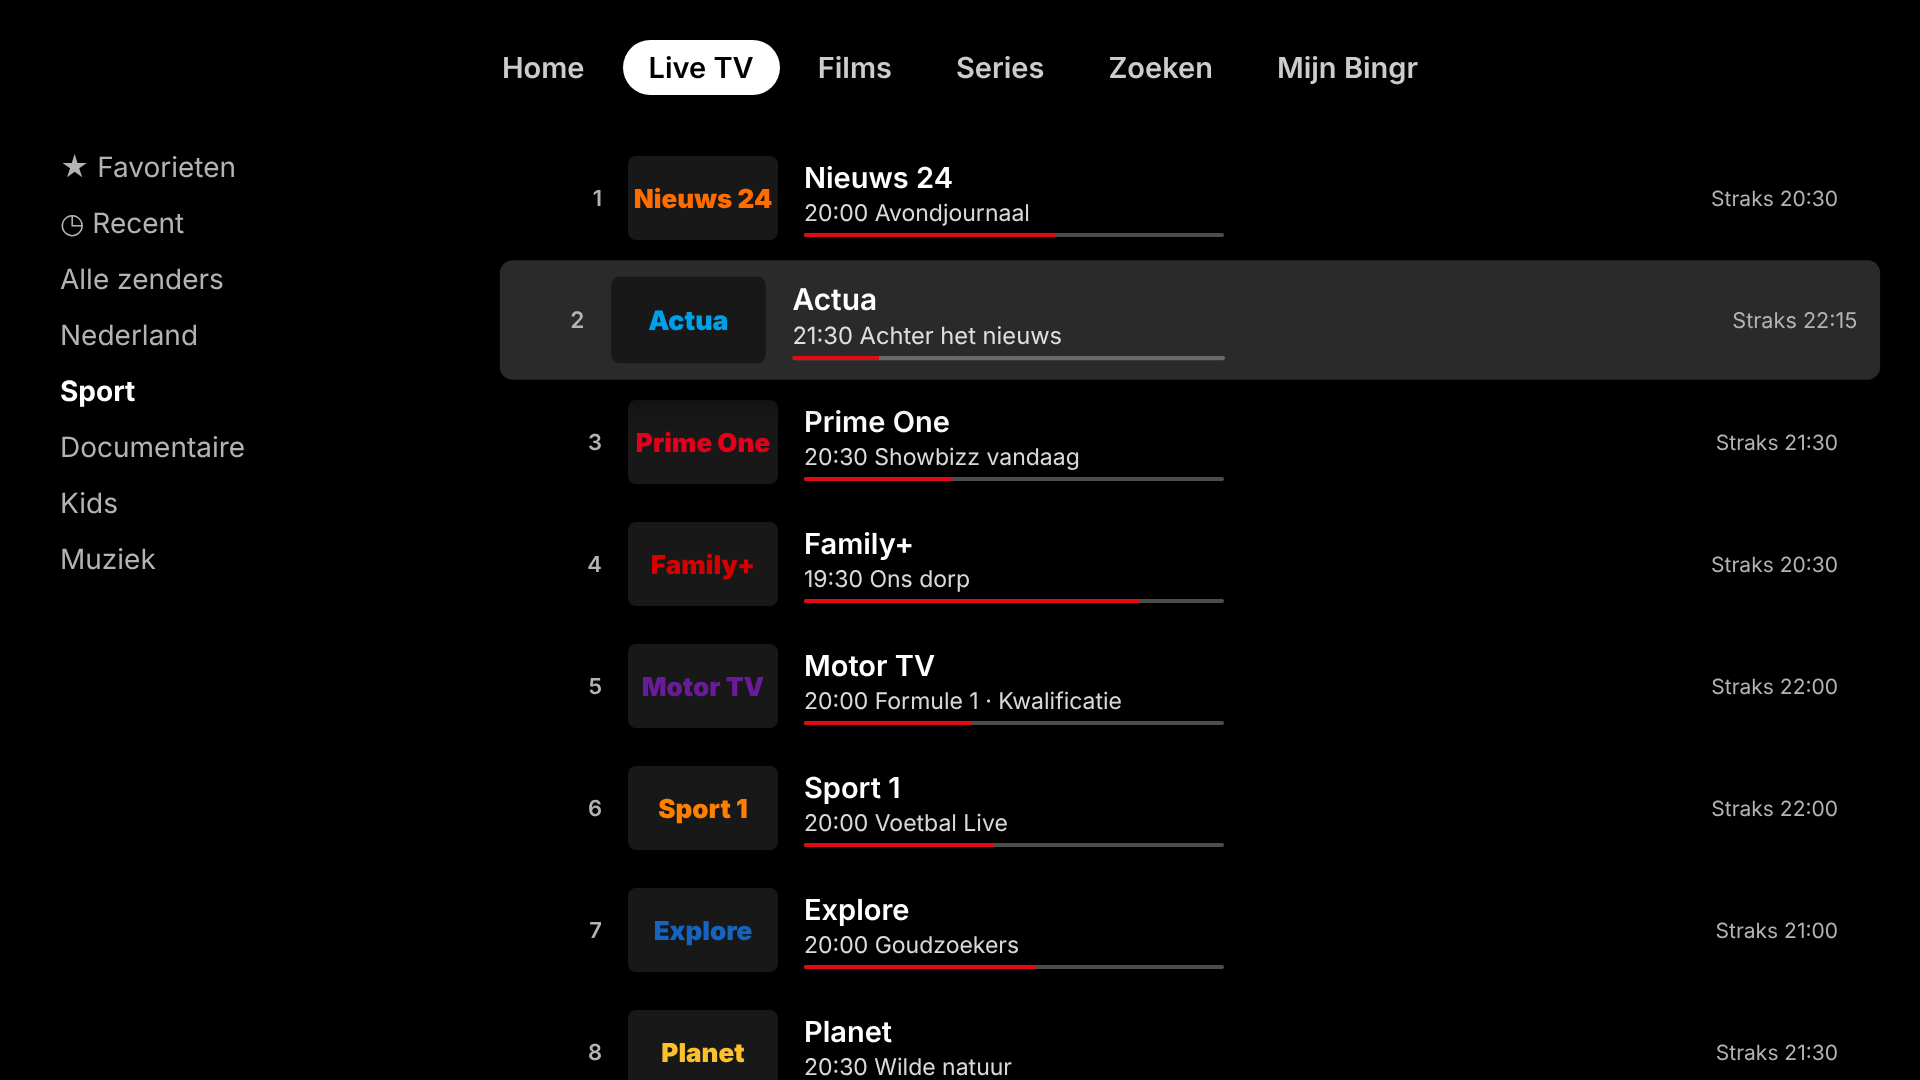
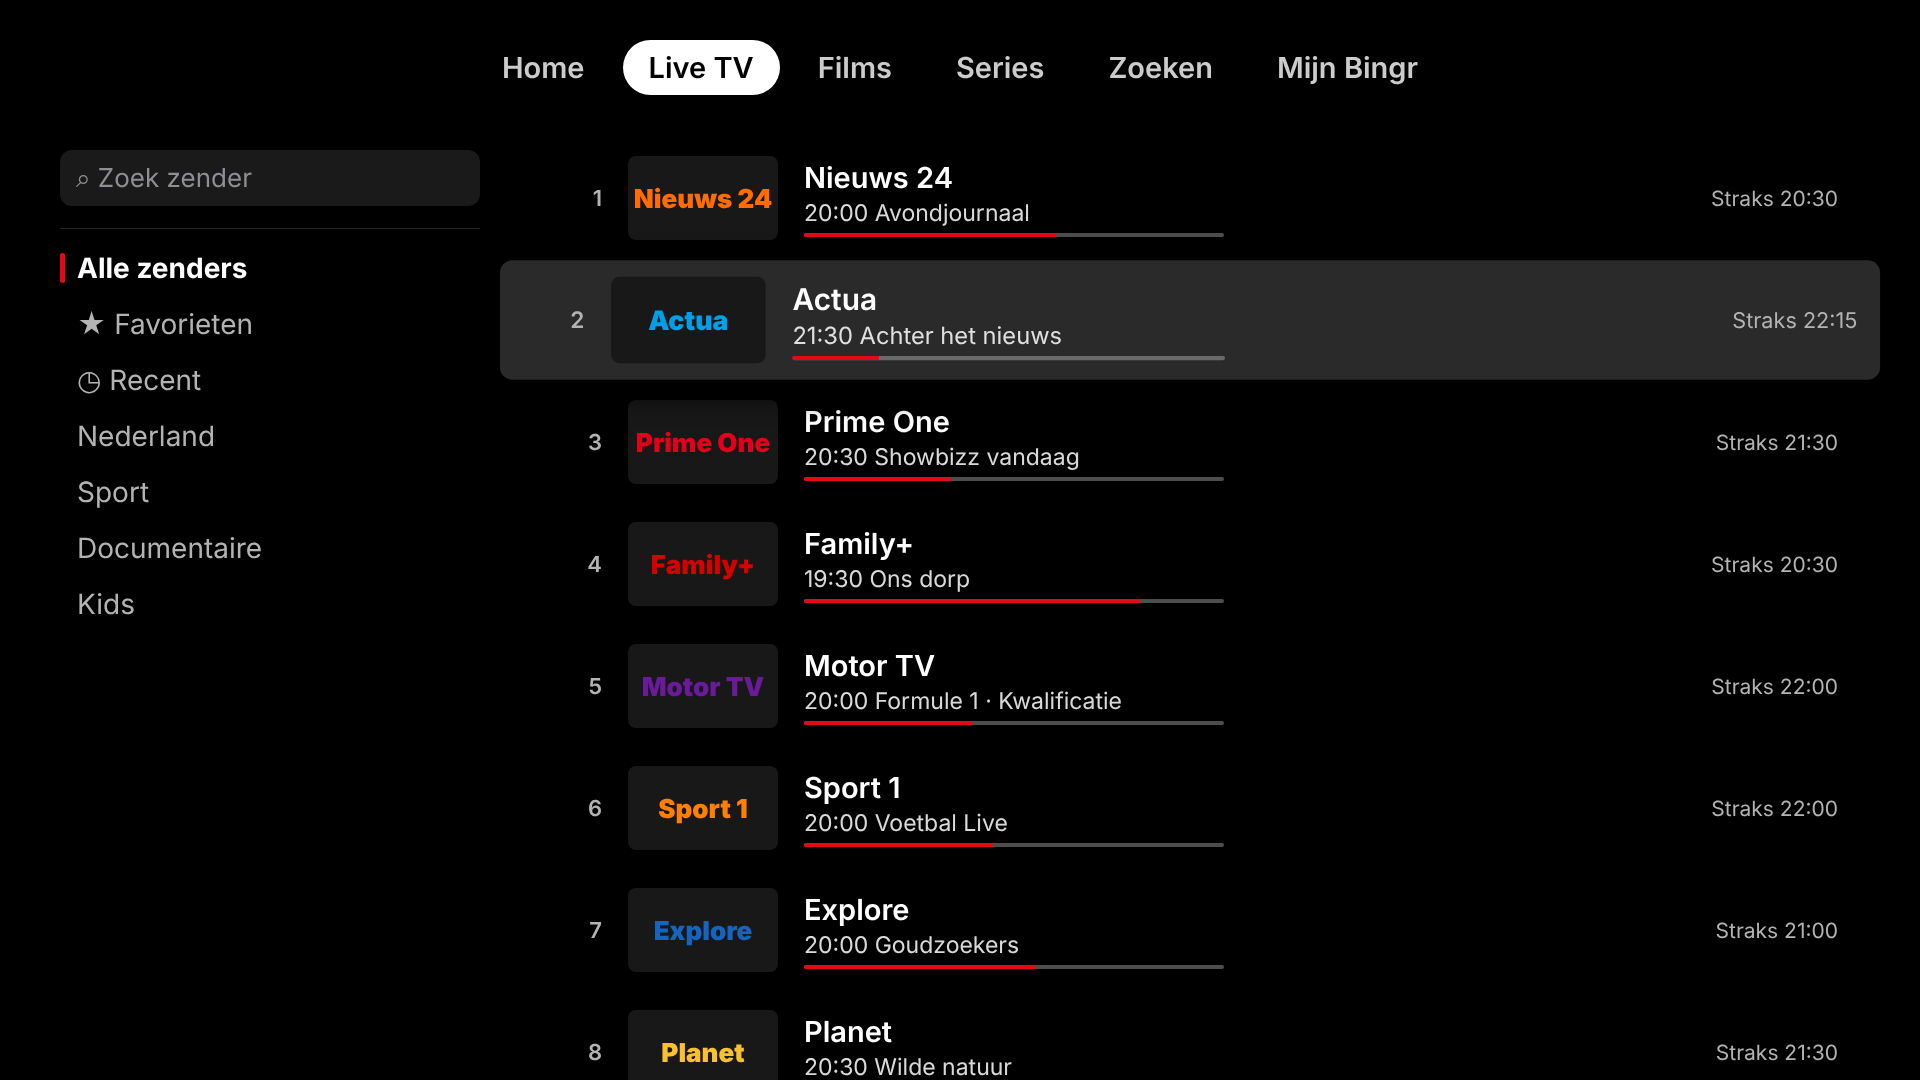
Screenshots: Live TV search (iOS + tvOS), Continue watching with progress bar, My List on Home
Claude-Session: https://claude.ai/code/session_01QoqqLVTvT2ekCDQmWshsy8

Changed region(s): [[0.0312, 0.1222, 0.25, 0.5806]]

diff --git a/docs/mockups/mockups.html b/docs/mockups/mockups.html
@@ -16,7 +16,7 @@ body{background:#000;color:#fff;font-family:-apple-system,"SF Pro Display","Helv
 .scroller{display:flex;gap:8px;padding:0 16px;overflow:hidden}
 .btn{display:inline-flex;align-items:center;justify-content:center;gap:8px;font-weight:700;border-radius:6px}
 .btn.w{background:#fff;color:#000}.btn.g{background:#ffffff38;color:#fff}.btn.r{background:var(--red);color:#fff}
-.tabbar{position:absolute;left:0;right:0;bottom:0;height:88px;background:#000;display:flex;justify-content:space-around;padding-top:10px;font-size:10px;color:#8c8c8c;border-top:1px solid #222}
+.tabbar{z-index:10;position:absolute;left:0;right:0;bottom:0;height:88px;background:#000;display:flex;justify-content:space-around;padding-top:10px;font-size:10px;color:#8c8c8c;border-top:1px solid #222}
 .tabbar div{display:flex;flex-direction:column;align-items:center;gap:4px}.tabbar .on{color:#fff}
 .ico{width:24px;height:24px;border-radius:5px;background:currentColor;opacity:.9;-webkit-mask-size:contain}
 .imdb{display:inline-flex;align-items:center;gap:5px;font-weight:600}.imdb b{background:var(--imdb);color:#000;font-weight:900;font-size:.72em;padding:1px 4px;border-radius:3px}
@@ -45,6 +45,7 @@ function poster(i,w,opt={}){const p=P[i%P.length];const h=w*1.5;
 const AV=[["#E50914","#7A0008","📺"],["#2563EB","#1E1B4B","🌐"],["#10B981","#064E3B","⚽"],["#A855F7","#3B0764","👑"],["#F59E0B","#9A3412","🔥"]];
 function av(i,s,name,color="#B3B3B3"){const a=AV[i];return `<div style="display:flex;flex-direction:column;align-items:center;gap:${s*.07}px"><div class="avatar" style="border-radius:50%;width:${s}px;height:${s}px;background:linear-gradient(135deg,${a[0]},${a[1]});font-size:${s*.42}px">${a[2]}</div><div style="color:${color};font-size:${s*.13}px">${name}</div></div>`}
 function top10(i,k,w){return `<div style="display:flex;align-items:flex-end;flex:none;margin-right:6px"><div style="font-size:${w*1.45}px;font-weight:900;line-height:.78;color:#000;-webkit-text-stroke:${Math.max(2,w/45)}px #8c8c8c;letter-spacing:-.06em;margin-right:-${w*.28}px">${k+1}</div><div style="position:relative;box-shadow:-6px 0 14px #000a">${poster(i,w,{badge:k==1?'Onlangs toegevoegd':null})}<div style="position:absolute;top:5px;left:5px;z-index:3;background:var(--red);border-radius:2px;padding:1px 3px;text-align:center;line-height:.9"><div style="font-size:${w*.055}px;font-weight:900">TOP</div><div style="font-size:${w*.09}px;font-weight:900">10</div></div></div></div>`}
+function cont(i,w,pct,min){return `<div style="flex:none;width:${w}px"><div style="position:relative">${poster(i,w)}<div style="position:absolute;inset:0;z-index:3;display:grid;place-items:center"><div style="width:38px;height:38px;border-radius:50%;background:#0008;border:1.5px solid #fffe;display:grid;place-items:center;font-size:14px;padding-left:3px">▶</div></div></div><div style="height:4px;border-radius:4px;background:#ffffff4d;margin-top:5px;overflow:hidden"><i style="display:block;height:100%;width:${pct}%;background:var(--red)"></i></div><div style="font-size:10px;color:#b3b3b3;margin-top:4px">Nog ${min} min</div></div>`}
 function rowh(t,all=true,fs=19){return `<div style="display:flex;justify-content:space-between;align-items:baseline;margin:0 16px 8px"><h3 style="margin:0;font-size:${fs}px">${t}</h3>${all?`<span style="font-size:15px;font-weight:600">Bekijk allemaal</span>`:''}</div>`}
 function chlogo(t,c){return `<div style="display:grid;place-items:center;font-weight:900;color:${c};font-size:13px;letter-spacing:-.02em">${t}</div>`}
 const CH=[["Nieuws 24","#ff6d00","Avondjournaal","20:00","20:30",.6],["Actua","#00a0e9","Achter het nieuws","21:30","22:15",.2],["Prime One","#e3001b","Showbizz vandaag","20:30","21:30",.35],
@@ -71,14 +72,14 @@ const screens = {
    <div style="position:relative"><div class="status"><span>20:42</span><span>●●● 5G ▮</span></div>
    <div style="display:flex;justify-content:space-between;align-items:center;padding:6px 16px"><div class="logo" style="font-size:26px">BINGR</div><div class="avatar" style="width:30px;height:30px;font-size:15px;border-radius:5px;background:linear-gradient(135deg,#E50914,#7A0008)">📺</div></div>
    <div style="display:flex;gap:8px;padding:8px 16px"><span class="pill">Series</span><span class="pill">Films</span><span class="pill">Categorieën ⌄</span></div>
-   <div style="margin:14px auto 0;width:300px;height:400px;border-radius:12px;overflow:hidden;position:relative;box-shadow:0 10px 40px #000a;border:1px solid #ffffff20;background:radial-gradient(circle at 35% 25%,#ff5a3c,transparent 55%),linear-gradient(170deg,#c0392b,#3a0a0a 75%)">
+   <div style="margin:14px auto 0;width:280px;height:340px;border-radius:12px;overflow:hidden;position:relative;box-shadow:0 10px 40px #000a;border:1px solid #ffffff20;background:radial-gradient(circle at 35% 25%,#ff5a3c,transparent 55%),linear-gradient(170deg,#c0392b,#3a0a0a 75%)">
      <div style="position:absolute;inset:0;background:linear-gradient(transparent 40%,#000d)"></div>
      <div style="position:absolute;bottom:16px;left:16px;right:16px;text-align:center">
        <div style="font-weight:900;font-size:34px;letter-spacing:1px">THE LAST SIGNAL</div>
        <div style="font-size:12px;opacity:.85;margin:8px 0 12px">2026 • Thriller • Sci-Fi • 2u 4m</div>
        <div style="display:flex;gap:10px"><div class="btn w" style="flex:1;padding:10px">▶ Afspelen</div><div class="btn g" style="flex:1;padding:10px">ⓘ Info</div></div></div></div>
-   <div class="row">${rowh('Onlangs toegevoegd')}<div class="scroller">${[13,14,15,16].map(i=>poster(i,112)).join('')}</div></div>
-   <div class="row">${rowh('Verder kijken',false)}<div class="scroller">${[4,8,2,11].map((i,k)=>poster(i,112,{prog:[62,25,80,40][k]})).join('')}</div></div>
+   <div class="row">${rowh('Verder kijken',false)}<div class="scroller">${[4,8,2,11].map((i,k)=>cont(i,112,[62,25,80,40][k],[38,71,9,52][k])).join('')}</div></div>
+   <div class="row">${rowh('Mijn lijst')}<div class="scroller">${[13,14,15,16].map(i=>poster(i,112)).join('')}</div></div>
    <div class="row">${rowh('Voor jou')}<div class="scroller">${[3,9,12,6].map((i,k)=>poster(i,112,{badge:k%2?'SERIE':'FILM'})).join('')}</div></div>
    <div class="row">${rowh('Top 10 series vandaag')}<div class="scroller">${[7,10,1].map((i,k)=>top10(i,k,118)).join('')}</div></div>
    </div>
@@ -113,8 +114,8 @@ const screens = {
    </div></div>`,
  ios_live:()=>`<div class="screen"><div class="status"><span>20:44</span><span>●●● 5G ▮</span></div>
    <div style="font-size:34px;font-weight:800;padding:8px 16px">Live TV</div>
-   <div style="margin:4px 16px;background:#1c1c1e;border-radius:10px;padding:9px 12px;color:#8e8e93;font-size:16px">⌕ Zender zoeken</div>
-   <div style="display:flex;gap:8px;padding:10px 16px;overflow:hidden">${["★ Favorieten","◷ Recent","Alle zenders","NL","Sport","Docu"].map((g,i)=>`<span class="pill ${i==0?'on':''}" style="${i?'background:#232323':''};white-space:nowrap">${g}</span>`).join('')}</div>
+   <div style="margin:4px 16px;background:#1c1c1e;border-radius:10px;padding:9px 12px;color:#8e8e93;font-size:16px">⌕ Zoek zender of programma</div>
+   <div style="display:flex;gap:8px;padding:10px 16px;overflow:hidden">${["Alle zenders","★ Favorieten","◷ Recent","NL","Sport","Docu"].map((g,i)=>`<span class="pill ${i==0?'on':''}" style="${i?'background:#232323':''};white-space:nowrap">${g}</span>`).join('')}</div>
    ${CH.slice(0,7).map((c,i)=>`<div style="display:flex;align-items:center;gap:12px;padding:10px 16px">
      <div style="width:34px;text-align:right;color:#b3b3b3;font-size:12px;font-weight:600">${i+1}</div>
      <div style="width:64px;height:40px;border-radius:4px;background:#181818;display:grid;place-items:center">${chlogo(c[0],c[1])}</div>
@@ -226,7 +227,10 @@ const screens = {
        ${e[1]?'<div style="width:44px;height:44px;border-radius:50%;background:var(--red);display:grid;place-items:center;font-size:26px;font-weight:900">✓</div>':'<div style="width:44px;height:44px;border-radius:50%;border:3px solid #777"></div>'}</div>`).join('')}</div></div></div>`,
  tv_live:()=>`<div class="screen">
    <div style="position:absolute;top:40px;left:0;right:0;display:flex;justify-content:center;gap:12px;font-size:29px;font-weight:600">${["Home","Live TV","Films","Series","Zoeken","Mijn Bingr"].map((t,i)=>`<span style="padding:10px 26px;border-radius:999px;${i==1?'background:#fff;color:#000':'color:#ccc'}">${t}</span>`).join('')}</div>
-   <div style="position:absolute;top:150px;left:60px;width:420px;display:flex;flex-direction:column;gap:22px;font-size:28px;color:#b3b3b3">${["★ Favorieten","◷ Recent","Alle zenders","Nederland","Sport","Documentaire","Kids","Muziek"].map((g,i)=>`<div style="${i==4?'color:#fff;font-weight:700':''}">${g}</div>`).join('')}</div>
+   <div style="position:absolute;top:150px;left:60px;width:420px;display:flex;flex-direction:column;gap:22px;font-size:28px;color:#b3b3b3">
+     <div style="display:flex;align-items:center;gap:12px;background:#ffffff1a;border-radius:12px;padding:12px 16px;font-size:26px;color:#8e8e93">⌕ Zoek zender</div>
+     <div style="height:1px;background:#ffffff26"></div>
+     ${["Alle zenders","★ Favorieten","◷ Recent","Nederland","Sport","Documentaire","Kids"].map((g,i)=>`<div style="display:flex;align-items:center;gap:12px;${i==0?'color:#fff;font-weight:700':''}"><span style="width:5px;height:30px;border-radius:3px;background:${i==0?'var(--red)':'transparent'}"></span>${g}</div>`).join('')}</div>
    <div style="position:absolute;top:140px;left:520px;right:60px;display:flex;flex-direction:column;gap:6px">
    ${CH.map((c,i)=>`<div style="display:flex;align-items:center;gap:26px;padding:16px 22px;border-radius:12px;${i==1?'background:#2a2a2a;transform:scale(1.03);box-shadow:0 10px 30px #000':''}">
      <div style="width:60px;text-align:right;color:#b3b3b3;font-size:22px;font-weight:600">${i+1}</div>
